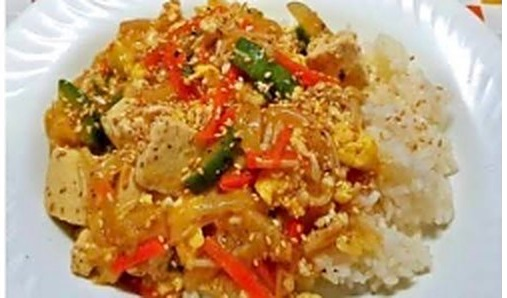
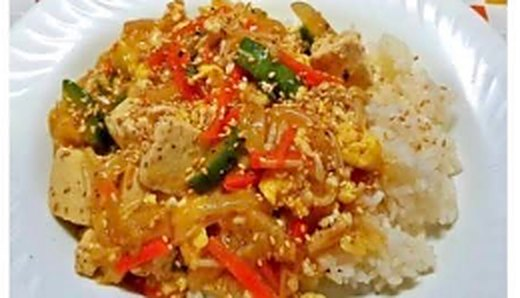
Add files via upload

diff --git a/assets/css/style.css b/assets/css/style.css
@@ -684,6 +684,13 @@ body.drawer-open .nav-toggle span::after { transform: translateY(-6px) rotate(-4
 }
 .dish-card__title .kr { font-size: 0.82rem; color: var(--ink-mute); }
 .dish-card__desc { font-size: 0.86rem; color: var(--ink-mute); line-height: 1.5; flex: 1; }
+.dish-card__price small {
+  display: block;
+  font-weight: 500;
+  font-size: 0.72rem;
+  color: var(--ink-mute);
+  margin-top: 2px;
+}
 .dish-card__price {
   font-weight: 700;
   font-size: 1rem;
@@ -889,9 +896,18 @@ body.drawer-open .nav-toggle span::after { transform: translateY(-6px) rotate(-4
   color: var(--ink);
   font-variant-numeric: tabular-nums;
 }
-.dish__price small { display: block; font-weight: 500; font-size: 0.74rem; color: var(--ink-mute); }
+.dish__price small { display: block; font-weight: 500; font-size: 0.74rem; color: var(--ink-mute); white-space: normal; }
 .dish__tags { display: flex; flex-wrap: wrap; gap: 6px; margin-top: 6px; grid-column: 1 / -1; }
 .dish--photo .dish__tags { grid-column: 2 / -1; }
+
+.price-legend {
+  font-size: 0.82rem;
+  line-height: 1.5;
+  color: var(--ink-mute);
+  max-width: 62ch;
+  margin: 16px 0 0;
+}
+.price-legend strong { color: var(--ink-soft); }
 
 .allergen-note {
   margin-top: clamp(28px, 4vw, 44px);
@@ -1303,7 +1319,60 @@ html[data-layout="mobile"] .footer-brand { grid-column: 1 / -1; }
 }
 
 @media print {
-  .site-header, .action-bar, .drawer, .site-footer, .menu-nav, .cta-band { display: none !important; }
+  .site-header, .action-bar, .drawer, .site-footer, .menu-nav, .cta-band, .order-notice { display: none !important; }
   body { padding: 0; background: #fff; }
   .dish { break-inside: avoid; }
 }
+
+/* --------------------------------------------------------------------------
+   Commande en ligne suspendue
+   Utilisé quand SITE.orderingOpen === false (voir assets/js/site.js §1).
+   Rien à modifier ici : le JS ajoute la classe .is-off et le bandeau.
+   -------------------------------------------------------------------------- */
+.order-notice {
+  background: var(--red-soft);
+  border-bottom: 1px solid rgba(201, 63, 52, 0.28);
+}
+.order-notice__inner {
+  max-width: var(--max);
+  margin: 0 auto;
+  padding: 12px var(--gutter);
+  display: flex;
+  flex-wrap: wrap;
+  align-items: center;
+  justify-content: center;
+  gap: 4px 14px;
+  text-align: center;
+  font-size: 0.92rem;
+  line-height: 1.4;
+  color: #7d2a22;
+}
+.order-notice__tel {
+  font-weight: 700;
+  color: #a32c24;
+  text-decoration: underline;
+  text-underline-offset: 3px;
+  white-space: nowrap;
+}
+.order-notice__tel:hover { color: var(--red-dark); }
+
+/* Boutons « Commander » neutralisés : gris, sans relief, curseur interdit */
+a.is-off,
+a.is-off:hover,
+a.is-off:active {
+  --btn-bg: var(--paper-3);
+  --btn-fg: var(--ink-mute);
+  background: var(--paper-3) !important;
+  color: var(--ink-mute) !important;
+  border-color: var(--line) !important;
+  box-shadow: none !important;
+  transform: none !important;
+  cursor: not-allowed;
+}
+a.is-off svg { opacity: 0.55; }
+.action-bar a.is-off,
+.action-bar a.is-off.is-primary {
+  background: var(--paper-2) !important;
+  color: var(--ink-mute) !important;
+}
+.action-bar a.is-off svg { opacity: 0.5; }

diff --git a/assets/js/site.js b/assets/js/site.js
@@ -12,7 +12,14 @@
     name: "Saveurs de Corée",
     phone: "+33783334997",
     phoneDisplay: "07 83 33 49 97",
-    orderUrl: "https://saveurs-de-coree.onataste.fr/menu/",
+    orderUrl: "https://deliveroo.fr/fr/menu/strasbourg/schiltigheim/saveurs-de-coree/",
+    /* — Interrupteur de la commande en ligne —
+       true  : les boutons « Commander » fonctionnent normalement
+       false : tous les boutons sont neutralisés (grisés, sans lien) et un
+               message s'affiche sous l'en-tête de chaque page              */
+    orderingOpen: true,
+    orderingClosedMessage:
+      "La commande en ligne est momentanément suspendue. Appelez-nous : nous préparons toujours sur place et à emporter.",
     instagram: "https://www.instagram.com/saveursdecoree/",
     // Horaires d'ouverture (0 = dimanche … 6 = samedi)
     hours: {
@@ -76,10 +83,41 @@
   /* ---------------------------------------------------------------------
      3. Liens dynamiques (téléphone, commande, Instagram)
      --------------------------------------------------------------------- */
-  document.querySelectorAll("[data-order]").forEach(function (el) {
-    el.setAttribute("href", SITE.orderUrl);
-    el.setAttribute("rel", "noopener");
-  });
+  var orderLinks = Array.prototype.slice.call(document.querySelectorAll("[data-order]"));
+
+  if (SITE.orderingOpen !== false) {
+    orderLinks.forEach(function (el) {
+      el.setAttribute("href", SITE.orderUrl);
+      el.setAttribute("rel", "noopener");
+    });
+  } else {
+    // Commande suspendue : plus de lien, plus de clic, style désactivé + message
+    orderLinks.forEach(function (el) {
+      el.removeAttribute("href");
+      el.removeAttribute("target");
+      el.removeAttribute("rel");
+      el.setAttribute("aria-disabled", "true");
+      el.setAttribute("tabindex", "-1");
+      el.setAttribute("title", "Commande en ligne momentanément suspendue — " + SITE.phoneDisplay);
+      el.classList.add("is-off");
+      el.addEventListener("click", function (e) { e.preventDefault(); });
+    });
+    showOrderingNotice();
+  }
+
+  function showOrderingNotice() {
+    var header = document.querySelector(".site-header");
+    if (!header || !header.parentNode) return;
+    var bar = document.createElement("div");
+    bar.className = "order-notice";
+    bar.setAttribute("role", "status");
+    bar.innerHTML =
+      '<div class="order-notice__inner">' +
+        '<span>' + SITE.orderingClosedMessage + '</span>' +
+        '<a class="order-notice__tel" href="tel:' + SITE.phone + '">' + SITE.phoneDisplay + '</a>' +
+      '</div>';
+    header.parentNode.insertBefore(bar, header.nextSibling);
+  }
   document.querySelectorAll("[data-tel]").forEach(function (el) {
     el.setAttribute("href", "tel:" + SITE.phone);
   });
